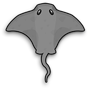
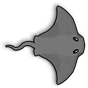
Changes arrow to stingray

diff --git a/arrow.js b/arrow.js
@@ -10,8 +10,8 @@ define(['constants'], function(constants) {
 
 			this.drawing = true;
 
-			this.initWithFile(window.bl.getResource('arrow'));
-			this.setAnchorPoint(cc.p(0.5, 0.43));
+			this.initWithFile(window.bl.getResource('stingray'));
+			this.setAnchorPoint(cc.p(0.7, 0.47));
 
 			this.actionFunctions = [];
 
